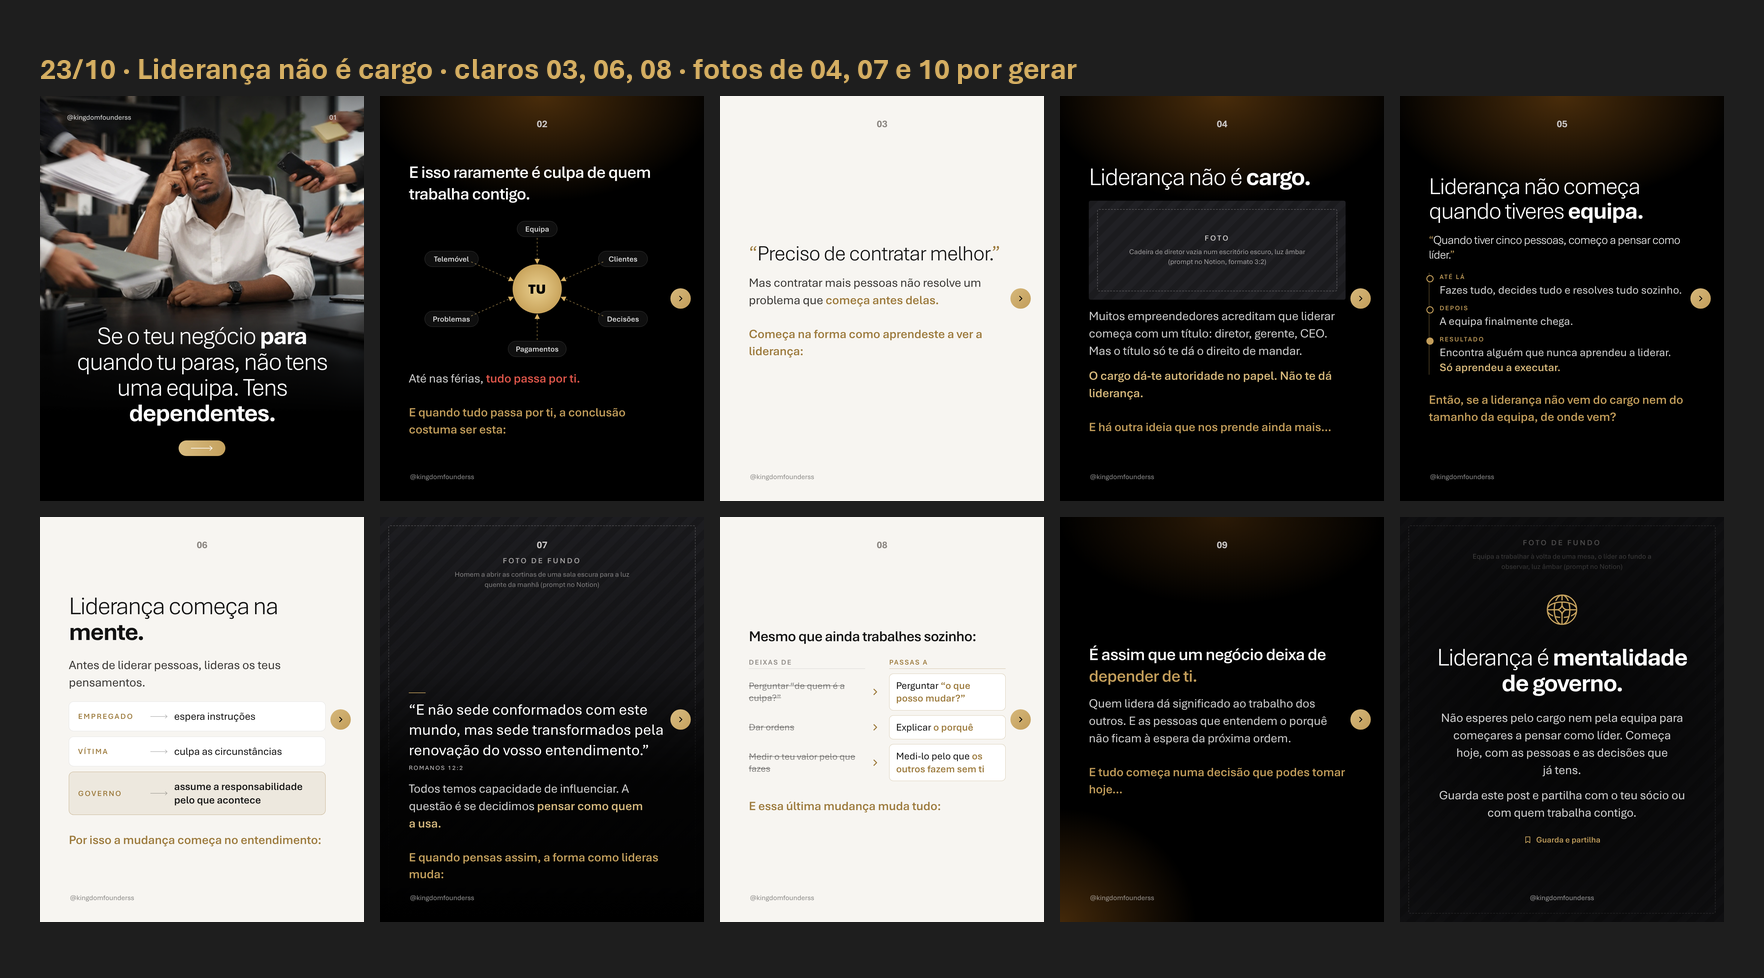
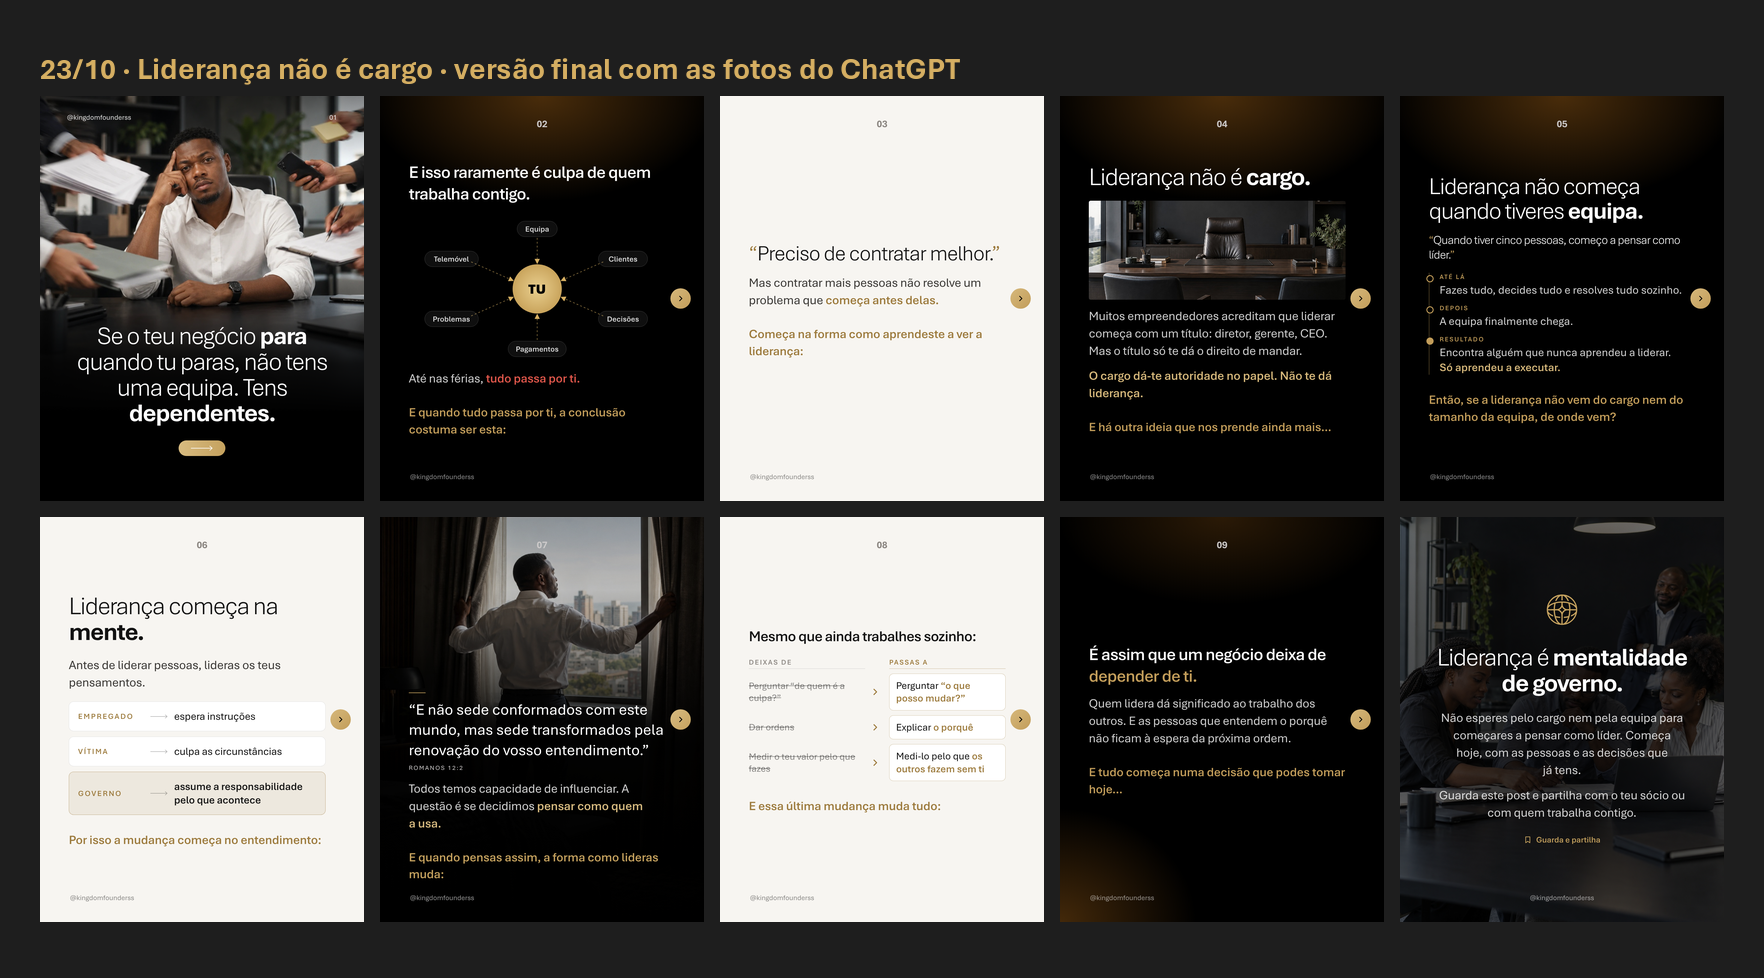
23/10: fotos do ChatGPT nos slides 04, 07 e 10
Claude-Session: https://claude.ai/code/session_01RgmbLLVHoJT5B4GNygU6zs

diff --git a/content/founders/semana-01/index.html b/content/founders/semana-01/index.html
@@ -316,7 +316,7 @@ body{ background:#2a2a2a; display:flex; flex-wrap:wrap; gap:40px; padding:40px; 
   <div class="glow"></div><div class="num">04</div>
   <div class="content">
     <div class="wt" style="font-size:84px">Liderança não é <b>cargo.</b></div>
-    <div class="inset" style="margin-top:36px;height:330px"><div class="ph" style="inset:0"><b>Foto</b><span>Cadeira de diretor vazia num escritório escuro, luz âmbar (prompt no Notion, formato 3:2)</span></div></div>
+    <div class="inset" style="margin-top:36px;height:330px"><img src="img/2026-10-23-s04-cadeira.jpg" alt="" style="object-position:50% 45%"></div>
     <p class="p">Muitos empreendedores acreditam que liderar começa com um título: diretor, gerente, CEO. Mas o título só te dá o direito de mandar.</p>
     <p class="p"><b>O cargo dá-te autoridade no papel. Não te dá liderança.</b></p>
     <p class="bridge">E há outra ideia que nos prende ainda mais…</p>
@@ -355,8 +355,8 @@ body{ background:#2a2a2a; display:flex; flex-wrap:wrap; gap:40px; padding:40px; 
 </section>
 
 <section class="post grain" data-file="2026-10-23-lideranca-nao-e-cargo/07.png">
-  <div class="bgph"><div class="ph" style="inset:0;justify-content:flex-start;padding-top:130px"><b>Foto de fundo</b><span>Homem a abrir as cortinas de uma sala escura para a luz quente da manhã (prompt no Notion)</span></div></div>
-  <div class="bgfade" style="background:linear-gradient(180deg,rgba(0,0,0,.15) 0%,rgba(0,0,0,.35) 38%,rgba(0,0,0,.92) 64%,#000 100%)"></div>
+  <div class="bgph"><img src="img/2026-10-23-s07-cortinas.jpg" alt="" style="object-position:50% 20%"></div>
+  <div class="bgfade" style="background:linear-gradient(180deg,rgba(0,0,0,.35) 0%,rgba(0,0,0,.2) 18%,rgba(0,0,0,.6) 40%,rgba(0,0,0,.93) 56%,#000 100%)"></div>
   <div class="num">07</div>
   <div class="content" style="justify-content:flex-end">
     <p class="verse" style="margin-top:0;font-size:52px;line-height:1.3">“E não sede conformados com este mundo, mas sede transformados pela renovação do vosso entendimento.”<span class="ref">Romanos 12:2</span></p>
@@ -392,7 +392,7 @@ body{ background:#2a2a2a; display:flex; flex-wrap:wrap; gap:40px; padding:40px; 
 </section>
 
 <section class="post grain" data-file="2026-10-23-lideranca-nao-e-cargo/10.png">
-  <div class="bgph"><div class="ph" style="inset:0;justify-content:flex-start;padding-top:70px"><b>Foto de fundo</b><span>Equipa a trabalhar à volta de uma mesa, o líder ao fundo a observar, luz âmbar (prompt no Notion)</span></div></div>
+  <div class="bgph"><img src="img/2026-10-23-s10-equipa.jpg" alt=""></div>
   <div class="bgfade" style="background:radial-gradient(75% 62% at 50% 52%,rgba(0,0,0,.9),rgba(0,0,0,.55))"></div>
   <div class="cta">
     <img class="logo" src="../../brand/founders/assets/kingdom-founders-simbolo.svg" alt="Kingdom Founders">
